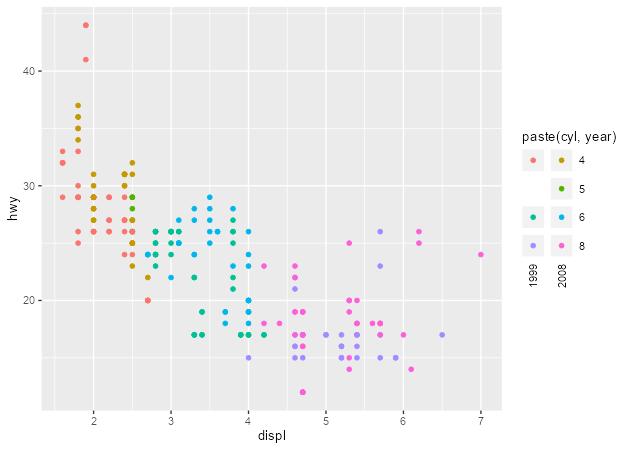
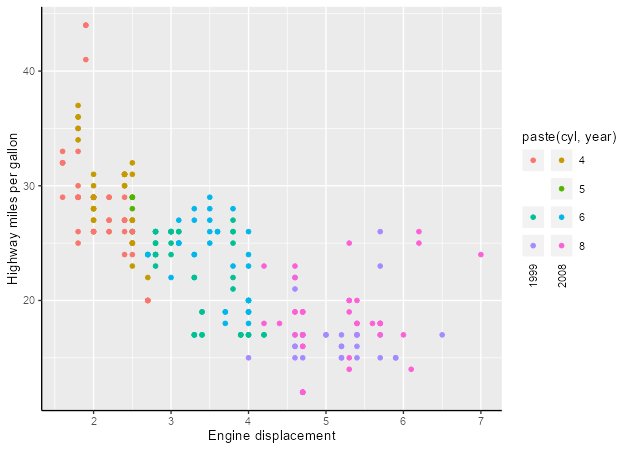
Add README example

Changed region(s): [[0.0603, 0.0311, 0.7841, 0.9333], [0.0, 0.3111, 0.0302, 0.6222], [0.3317, 0.9644, 0.5429, 0.9956]]

diff --git a/README.md b/README.md
@@ -36,26 +36,39 @@ remotes::install_github("teunbrand/gguidance", ref = "main")
 
 ## Examples
 
-A ‘cross legend’ can show two variables in a single legend.
+Let’s first set up a basic plot to experiment with
 
 ``` r
 library(gguidance)
 #> Loading required package: ggplot2
 
-ggplot(mpg, aes(displ, hwy)) +
-  geom_point(aes(colour = paste(cyl, year))) +
+p <- ggplot(mpg, aes(displ, hwy)) +
+  geom_point() +
+  labs(
+    x = "Engine displacement",
+    y = "Highway miles per gallon"
+  ) +
+  theme(axis.line = element_line())
+```
+
+### Legends
+
+A ‘cross legend’ can show two variables in a single legend.
+
+``` r
+p + aes(colour = paste(cyl, year)) +
   guides(colour = "legend_cross")
 ```
 
 <img src="man/figures/README-legend_cross-1.png" width="80%" />
 
-A capped legend:
+### Colour bars
+
+A capped colour bar:
 
 ``` r
-ggplot(mpg, aes(displ, hwy)) +
-  geom_point(aes(colour = cty)) +
-  scale_colour_viridis_c() +
-  guides(colour = guide_colourbar_cap())
+p + aes(colour = cty) +
+  scale_colour_viridis_c(guide = "colourbar_cap")
 ```
 
 <img src="man/figures/README-colourbar_cap-1.png" width="80%" />
@@ -63,14 +76,52 @@ ggplot(mpg, aes(displ, hwy)) +
 Using a violin as a colour guide:
 
 ``` r
-ggplot(mpg, aes(displ, hwy)) +
-  geom_point(aes(colour = cty)) +
-  scale_colour_viridis_c(
-    guide = guide_colour_violin(density = mpg$cty)
-  )
+p + aes(colour = cty) +
+  scale_colour_viridis_c(guide = guide_colour_violin(density = mpg$cty))
 ```
 
 <img src="man/figures/README-colour_violin-1.png" width="80%" />
+
+### Axes
+
+Using subtitles.
+
+``` r
+p + guides(x = guide_axis_extend(subtitle = c("Less", "More")))
+```
+
+<img src="man/figures/README-axis_extend-1.png" width="80%" />
+
+Using minor ticks.
+
+``` r
+p + guides(x = "axis_minor")
+```
+
+<img src="man/figures/README-axis_minor-1.png" width="80%" />
+
+Using capped lines.
+
+``` r
+p + guides(x = "axis_cap")
+```
+
+<img src="man/figures/README-axis_cap-1.png" width="80%" />
+
+With bracketed ranges.
+
+``` r
+ggplot(mpg, aes(class, displ)) +
+  geom_boxplot() +
+  guides(x = guide_axis_nested(
+    range_start = c(0.5, 3.5),
+    range_end   = c(4.5, 6.5),
+    range_name  = c("First range", "Second range"),
+    bracket     = "square" 
+  ))
+```
+
+<img src="man/figures/README-axis_nested-1.png" width="80%" />
 
 Using a table as an axis guide.
 
